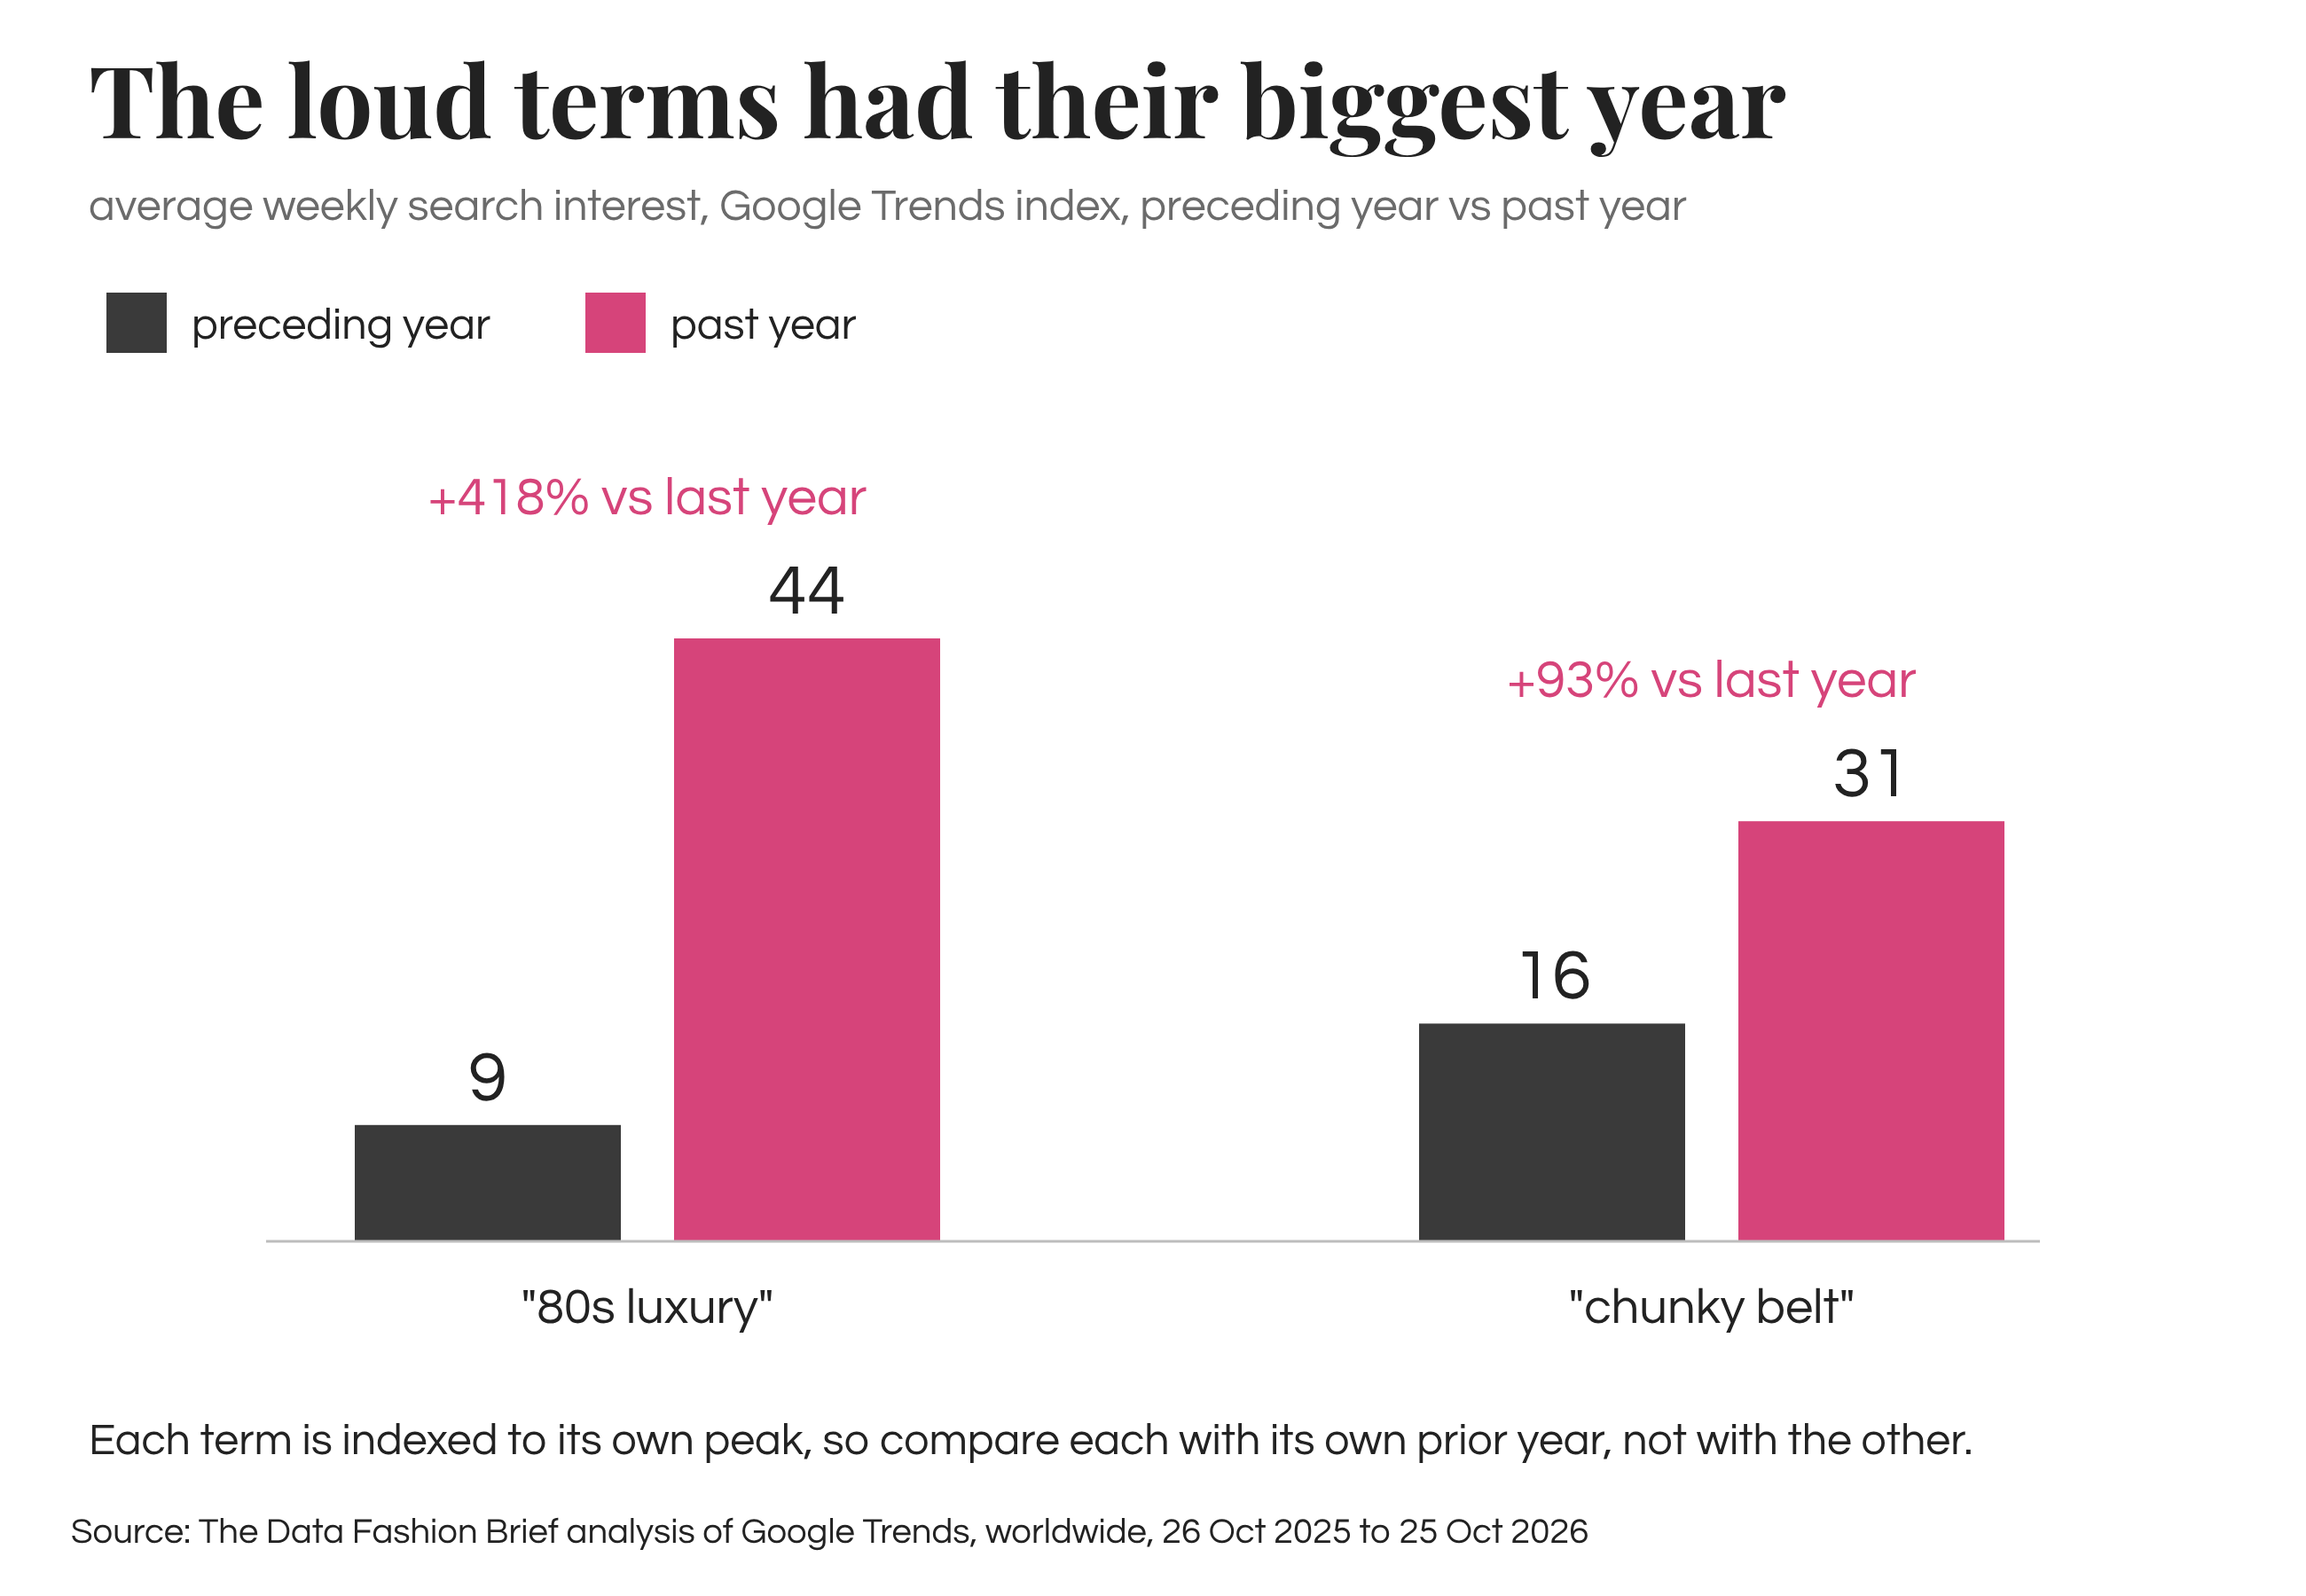
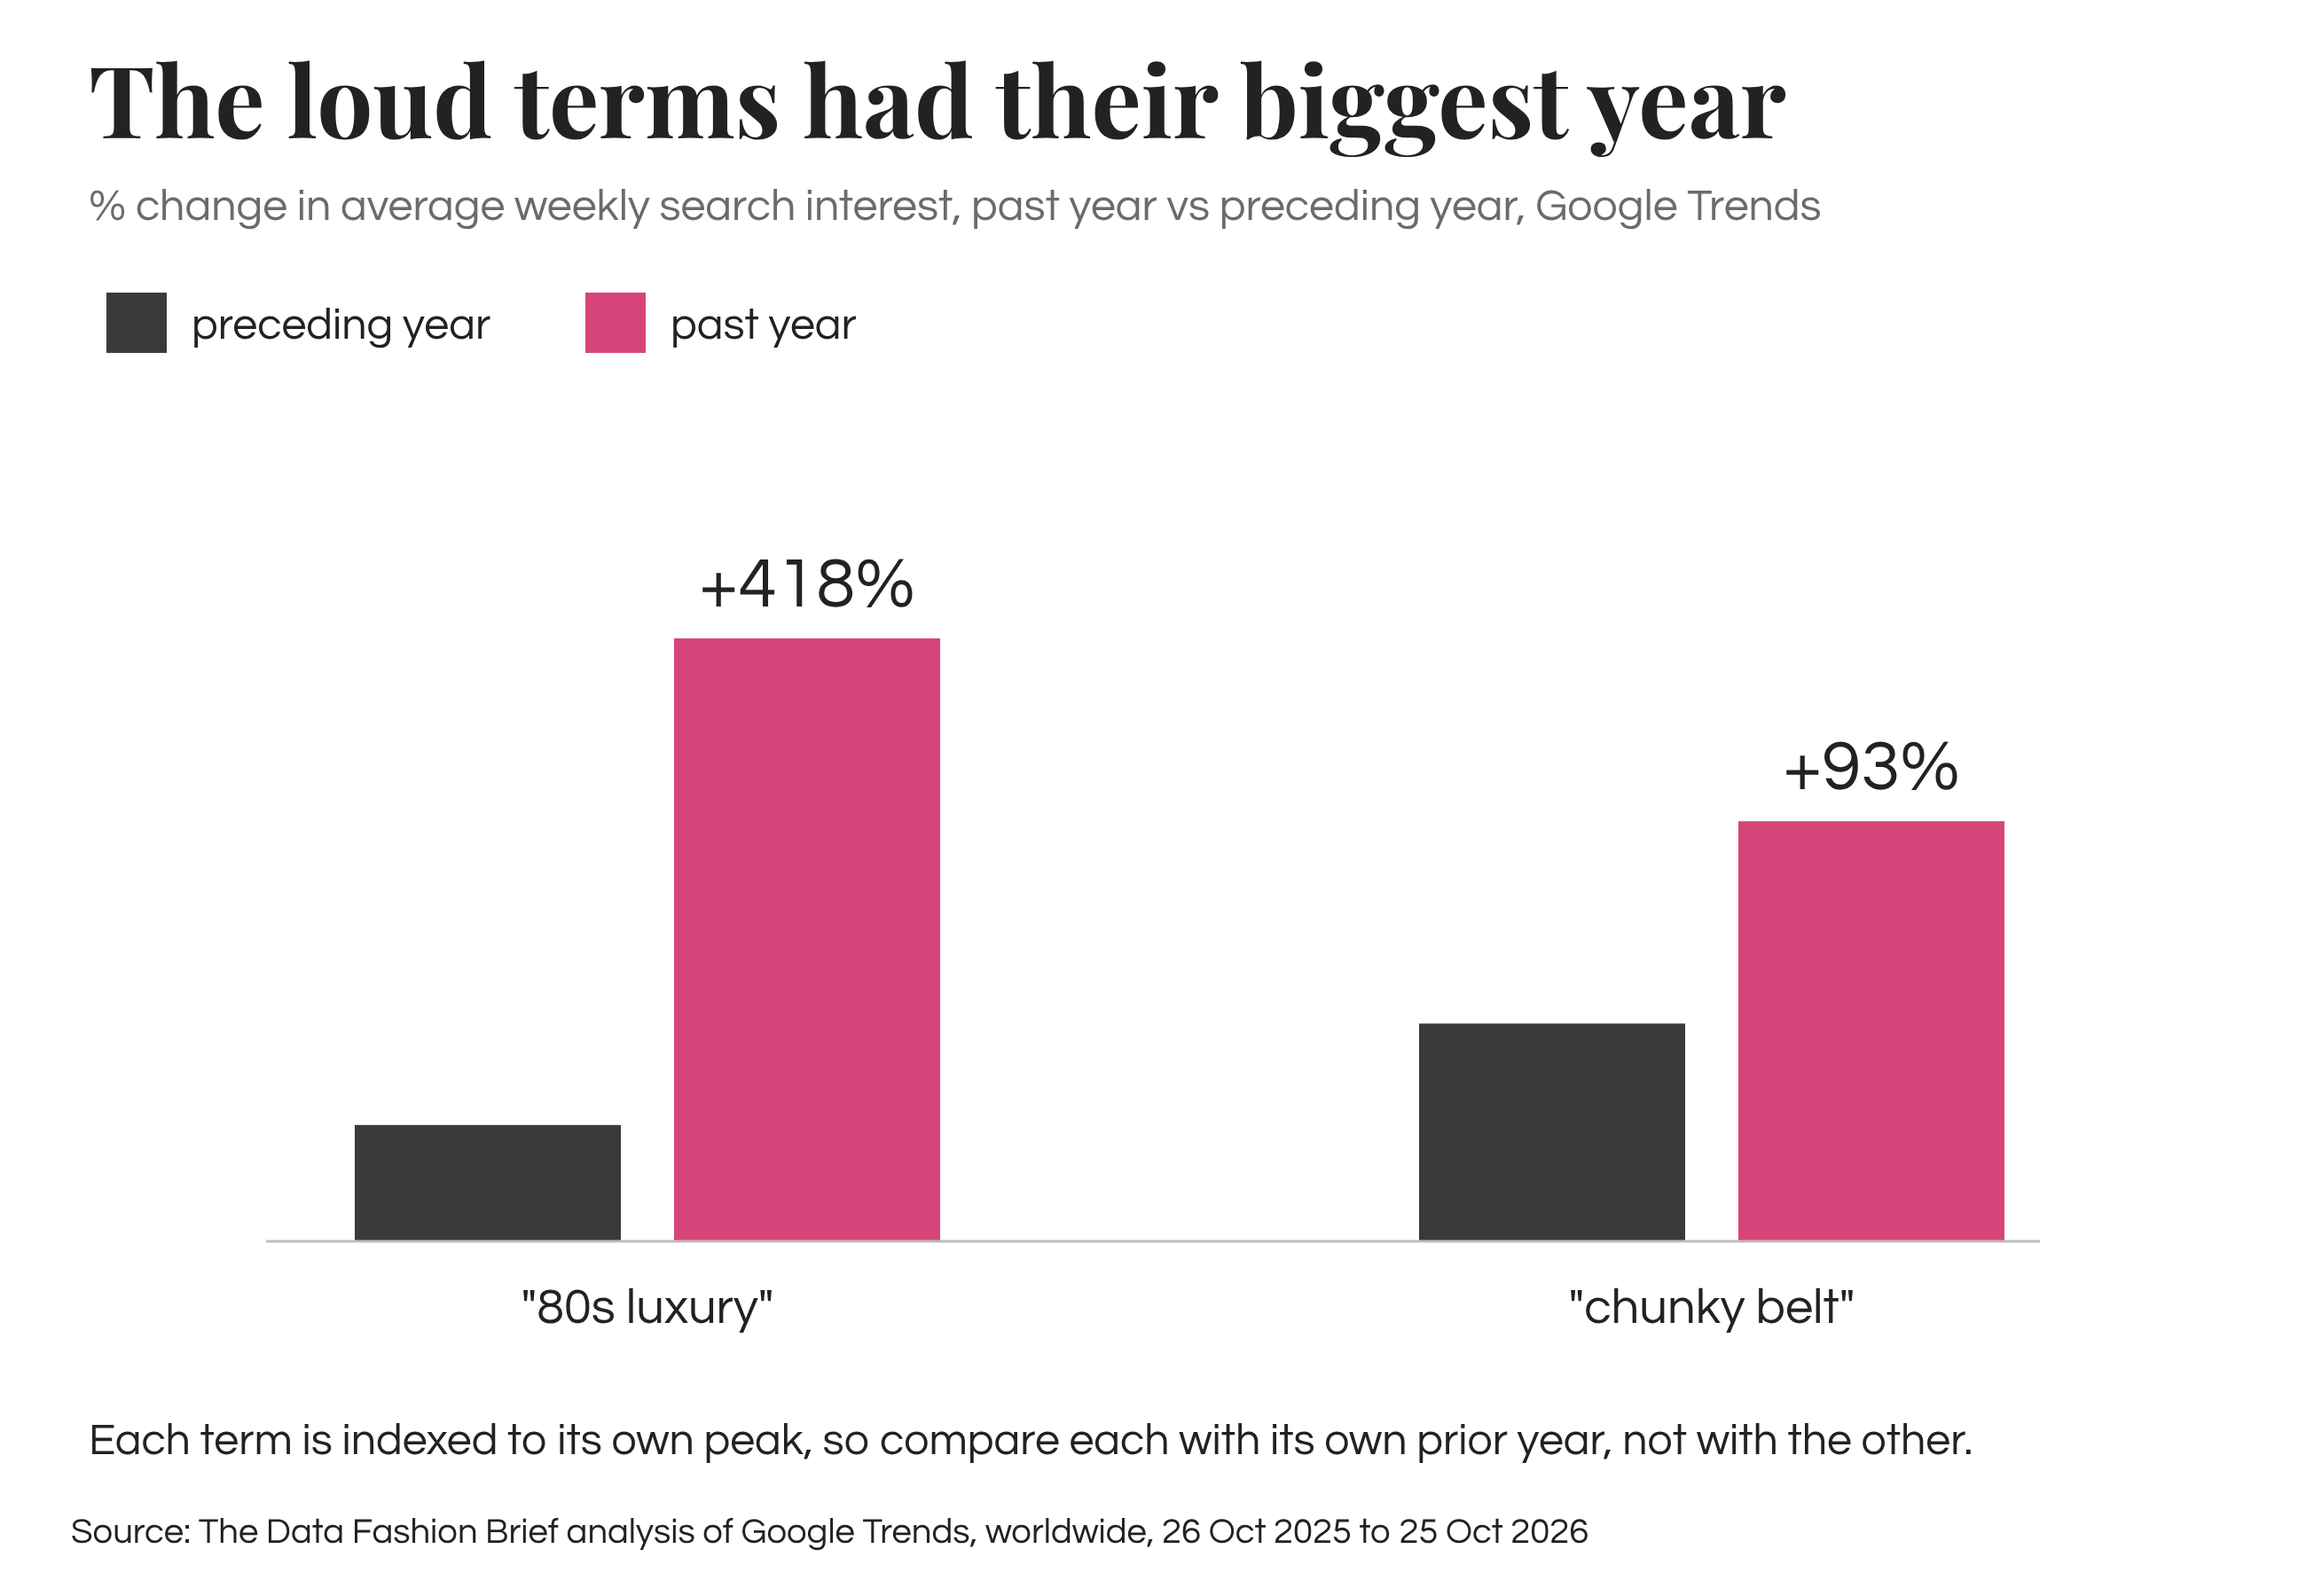
Loud terms chart: growth only, no index values
Claude-Session: https://claude.ai/code/session_01XDoartUBrdpTf4ap1hSHcT

diff --git a/drafts/fashionunited-maximalism-charts/10-loud-terms-year-on-year.html b/drafts/fashionunited-maximalism-charts/10-loud-terms-year-on-year.html
@@ -1,20 +1,16 @@
 <!doctype html><html><head><meta charset="utf-8"><link href="https://fonts.googleapis.com/css2?family=Playfair+Display:ital,wght@0,500;0,700;1,500&family=Questrial&display=swap" rel="stylesheet"><style>body{margin:0;background:#fff}</style></head><body><svg xmlns="http://www.w3.org/2000/svg" viewBox="0 0 1300 900" width="1300" height="900">
 <rect width="1300" height="900" fill="#FFFFFF"/>
 <text x="50" y="78" font-family="'Playfair Display', Georgia, serif" font-weight="700" font-size="56" fill="#222222">The loud terms had their biggest year</text>
-<text x="50" y="124" font-family="'Century Gothic', 'Questrial', 'Avenir', sans-serif" font-size="25" fill="#6B6B6B">average weekly search interest, Google Trends index, preceding year vs past year</text>
+<text x="50" y="124" font-family="'Century Gothic', 'Questrial', 'Avenir', sans-serif" font-size="25" fill="#6B6B6B">% change in average weekly search interest, past year vs preceding year, Google Trends</text>
 <rect x="60" y="165" width="34" height="34" fill="#3A3A3A"/><text x="108" y="191" font-family="'Century Gothic', 'Questrial', 'Avenir', sans-serif" font-size="25" fill="#222222">preceding year</text>
 <rect x="330" y="165" width="34" height="34" fill="#D6447A"/><text x="378" y="191" font-family="'Century Gothic', 'Questrial', 'Avenir', sans-serif" font-size="25" fill="#222222">past year</text>
 <rect x="200" y="634.4" width="150" height="65.6" fill="#3A3A3A"/>
-<text x="275.0" y="620.4" text-anchor="middle" font-family="'Century Gothic', 'Questrial', 'Avenir', sans-serif" font-size="40" fill="#222222">9</text>
 <rect x="380" y="360.0" width="150" height="340.0" fill="#D6447A"/>
-<text x="455.0" y="346.0" text-anchor="middle" font-family="'Century Gothic', 'Questrial', 'Avenir', sans-serif" font-size="40" fill="#222222">44</text>
-<text x="365.0" y="290.0" text-anchor="middle" font-family="'Century Gothic', 'Questrial', 'Avenir', sans-serif" font-size="30" fill="#D6447A">+418% vs last year</text>
+<text x="455.0" y="342.0" text-anchor="middle" font-family="'Century Gothic', 'Questrial', 'Avenir', sans-serif" font-size="40" fill="#222222">+418%</text>
 <text x="365.0" y="746" text-anchor="middle" font-family="'Century Gothic', 'Questrial', 'Avenir', sans-serif" font-size="28" fill="#222222">"80s luxury"</text>
 <rect x="800" y="577.2" width="150" height="122.8" fill="#3A3A3A"/>
-<text x="875.0" y="563.2" text-anchor="middle" font-family="'Century Gothic', 'Questrial', 'Avenir', sans-serif" font-size="40" fill="#222222">16</text>
 <rect x="980" y="463.1" width="150" height="236.9" fill="#D6447A"/>
-<text x="1055.0" y="449.1" text-anchor="middle" font-family="'Century Gothic', 'Questrial', 'Avenir', sans-serif" font-size="40" fill="#222222">31</text>
-<text x="965.0" y="393.1" text-anchor="middle" font-family="'Century Gothic', 'Questrial', 'Avenir', sans-serif" font-size="30" fill="#D6447A">+93% vs last year</text>
+<text x="1055.0" y="445.1" text-anchor="middle" font-family="'Century Gothic', 'Questrial', 'Avenir', sans-serif" font-size="40" fill="#222222">+93%</text>
 <text x="965.0" y="746" text-anchor="middle" font-family="'Century Gothic', 'Questrial', 'Avenir', sans-serif" font-size="28" fill="#222222">"chunky belt"</text>
 <line x1="150" y1="700" x2="1150" y2="700" stroke="#BDBDBD" stroke-width="1.5"/>
 <text x="50" y="820" font-family="'Century Gothic', 'Questrial', 'Avenir', sans-serif" font-size="25" fill="#222222">Each term is indexed to its own peak, so compare each with its own prior year, not with the other.</text>

diff --git a/drafts/fashionunited-maximalism-charts/build_charts.py b/drafts/fashionunited-maximalism-charts/build_charts.py
@@ -102,7 +102,7 @@ def avg(name):
 groups = [('80s luxury', *avg('80s_luxury')), ('chunky belt', *avg('chunky_belt'))]
 W, H = 1300, 900
 p = head(W, H, 'The loud terms had their biggest year',
-         'average weekly search interest, Google Trends index, preceding year vs past year')
+         '% change in average weekly search interest, past year vs preceding year, Google Trends')
 p.append(f'<rect x="60" y="165" width="34" height="34" fill="{DARK}"/><text x="108" y="191" font-family="{SANS}" font-size="25" fill="{INK}">preceding year</text>')
 p.append(f'<rect x="330" y="165" width="34" height="34" fill="{PINK}"/><text x="378" y="191" font-family="{SANS}" font-size="25" fill="{INK}">past year</text>')
 top, base, bw, gap = 300, 700, 150, 30
@@ -113,10 +113,10 @@ for gi, (lab, last, this) in enumerate(groups):
         x = gx + k * (bw + gap)
         bh = v * scale
         p.append(f'<rect x="{x}" y="{base-bh:.1f}" width="{bw}" height="{bh:.1f}" fill="{col}"/>')
-        p.append(f'<text x="{x+bw/2:.1f}" y="{base-bh-14:.1f}" text-anchor="middle" font-family="{SANS}" font-size="40" fill="{INK}">{half_up(v)}</text>')
     growth = half_up(100 * (this / last - 1))
+    px = gx + bw + gap + bw / 2
     cx = gx + bw + gap / 2
-    p.append(f'<text x="{cx:.1f}" y="{base-this*scale-70:.1f}" text-anchor="middle" font-family="{SANS}" font-size="30" fill="{PINK}">+{growth}% vs last year</text>')
+    p.append(f'<text x="{px:.1f}" y="{base-this*scale-18:.1f}" text-anchor="middle" font-family="{SANS}" font-size="40" fill="{INK}">+{growth}%</text>')
     p.append(f'<text x="{cx:.1f}" y="{base+46}" text-anchor="middle" font-family="{SANS}" font-size="28" fill="{INK}">"{lab}"</text>')
 p.append(f'<line x1="150" y1="{base}" x2="{W-150}" y2="{base}" stroke="#BDBDBD" stroke-width="1.5"/>')
 p.append(f'<text x="50" y="{H-80}" font-family="{SANS}" font-size="25" fill="{INK}">Each term is indexed to its own peak, so compare each with its own prior year, not with the other.</text>')
